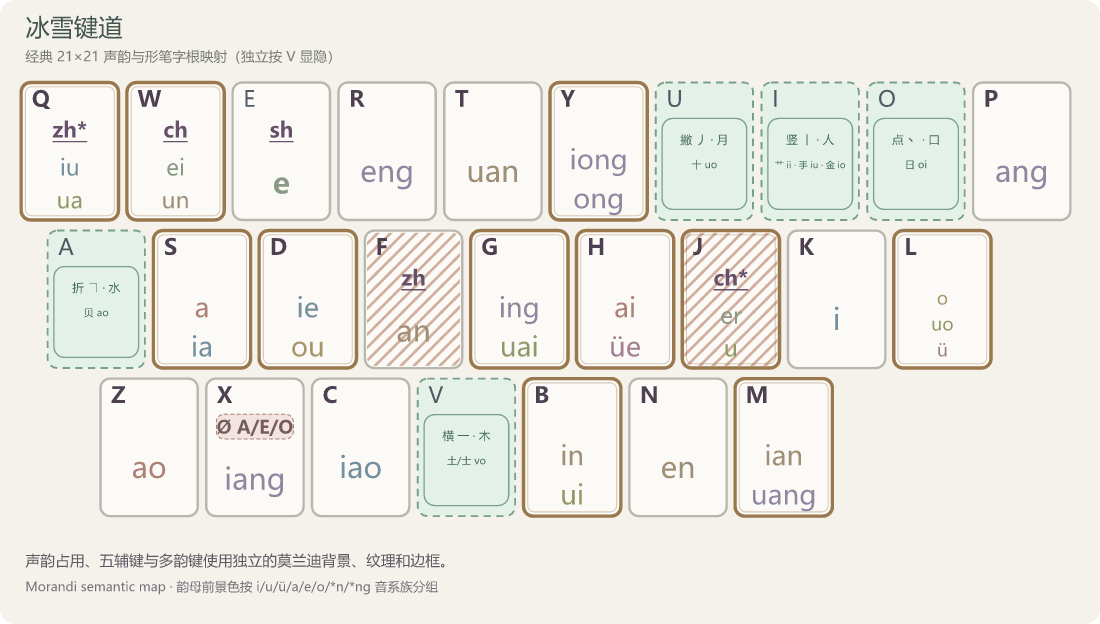
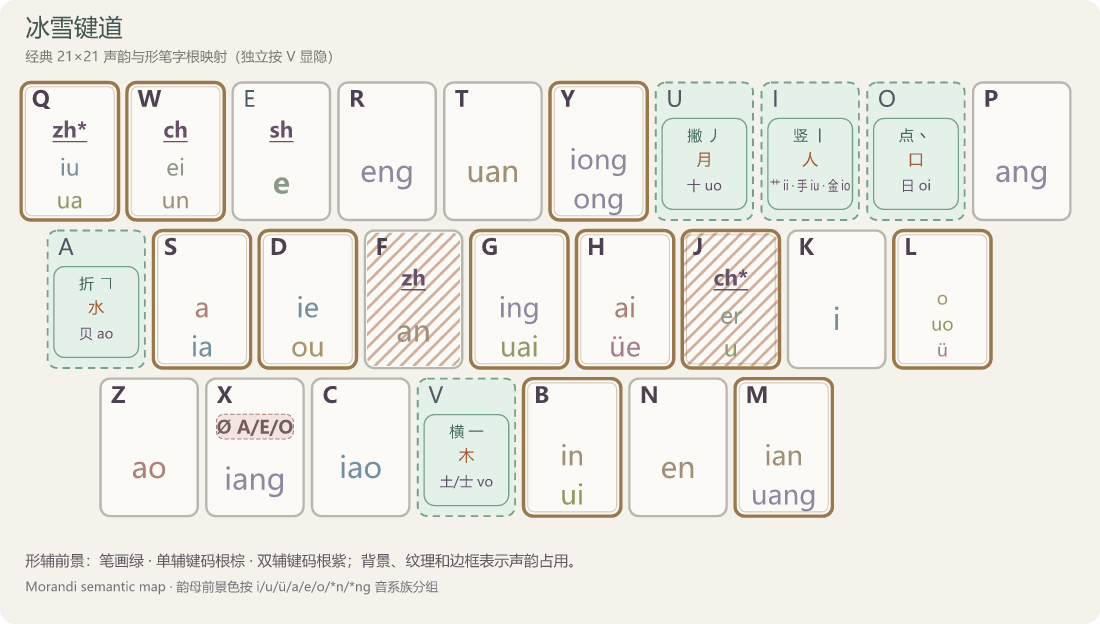
style: clarify shape auxiliary keymaps

diff --git a/scripts/generate-keymaps.ts b/scripts/generate-keymaps.ts
@@ -10,11 +10,21 @@ type Mapping = {
 	toneKeysByTone: string;
 };
 
-type KeyNote = {
+type GenericKeyNote = {
 	primary: string;
 	secondary?: string;
 	tertiary?: string;
 };
+
+type ShapeKeyNote = {
+	stroke: string;
+	singleRoot: string;
+	doubleRoot: string;
+};
+
+type KeyNote = GenericKeyNote | ShapeKeyNote;
+
+type ShapeAuxiliaryKind = "stroke" | "single-root" | "double-root";
 
 type Diagram = {
 	filename: string;
@@ -158,7 +168,7 @@ function initialLabels(mapping: Mapping) {
 	return result;
 }
 
-function toneNotes(keys: string) {
+function toneNotes(keys: string): Record<string, GenericKeyNote> {
 	const tones = ["一声 ˉ", "二声 ˊ", "三声 ˇ", "四声 ˋ", "轻声 ·"];
 	return Object.fromEntries(
 		[...keys].map((key, index) => [
@@ -168,7 +178,7 @@ function toneNotes(keys: string) {
 	);
 }
 
-function shapeNotes(keys: string) {
+function shapeNotes(keys: string): Record<string, ShapeKeyNote> {
 	const meaningKeys = [...keys.toUpperCase()];
 	const physical = {
 		a: meaningKeys[0],
@@ -183,21 +193,35 @@ function shapeNotes(keys: string) {
 			.join("")
 			.toLowerCase();
 	return {
-		[physical.a]: { primary: "折 ㇕ · 水", secondary: `贝 ${code("ao")}` },
+		[physical.a]: {
+			stroke: "折 ㇕",
+			singleRoot: "水",
+			doubleRoot: `贝 ${code("ao")}`,
+		},
 		[physical.v]: {
-			primary: "横 一 · 木",
-			secondary: `土/士 ${code("vo")}`,
+			stroke: "横 一",
+			singleRoot: "木",
+			doubleRoot: `土/士 ${code("vo")}`,
 		},
-		[physical.u]: { primary: "撇 丿 · 月", secondary: `十 ${code("uo")}` },
+		[physical.u]: {
+			stroke: "撇 丿",
+			singleRoot: "月",
+			doubleRoot: `十 ${code("uo")}`,
+		},
 		[physical.i]: {
-			primary: "竖 丨 · 人",
-			secondary: `艹 ${code("ii")} · 手 ${code("iu")} · 金 ${code("io")}`,
+			stroke: "竖 丨",
+			singleRoot: "人",
+			doubleRoot: `艹 ${code("ii")} · 手 ${code("iu")} · 金 ${code("io")}`,
 		},
-		[physical.o]: { primary: "点 丶 · 口", secondary: `日 ${code("oi")}` },
+		[physical.o]: {
+			stroke: "点 丶",
+			singleRoot: "口",
+			doubleRoot: `日 ${code("oi")}`,
+		},
 	};
 }
 
-const sipinAuxiliary: Record<string, KeyNote> = {
+const sipinAuxiliary: Record<string, GenericKeyNote> = {
 	A: { primary: "腹 a/ü", secondary: "尾 m · 四声 ˋ", tertiary: "折 ㇕" },
 	E: { primary: "腹 e/ie", secondary: "尾 ng · 二声 ˊ", tertiary: "横 一" },
 	U: { primary: "腹 u/ia/ue", secondary: "三声 ˇ", tertiary: "撇 丿" },
@@ -288,9 +312,113 @@ function text(
 	x: number,
 	y: number,
 	value: string,
-	options: { size: number; fill: string; anchor?: string; weight?: number },
+	options: {
+		size: number;
+		fill: string;
+		anchor?: string;
+		weight?: number;
+		auxKind?: ShapeAuxiliaryKind;
+		textLength?: number;
+	},
 ) {
-	return `<text x="${x}" y="${y}" font-family="Microsoft YaHei UI, Noto Sans CJK SC, sans-serif" font-size="${options.size}" fill="${options.fill}" text-anchor="${options.anchor ?? "start"}" font-weight="${options.weight ?? 500}">${escapeXml(value)}</text>`;
+	const auxiliaryKind = options.auxKind
+		? ` data-aux-kind="${options.auxKind}"`
+		: "";
+	const fittedLength = options.textLength
+		? ` textLength="${options.textLength}" lengthAdjust="spacingAndGlyphs"`
+		: "";
+	return `<text x="${x}" y="${y}" font-family="Microsoft YaHei UI, Noto Sans CJK SC, sans-serif" font-size="${options.size}" fill="${options.fill}" text-anchor="${options.anchor ?? "start"}" font-weight="${options.weight ?? 500}"${auxiliaryKind}${fittedLength}>${escapeXml(value)}</text>`;
+}
+
+function isShapeKeyNote(note: KeyNote): note is ShapeKeyNote {
+	return "stroke" in note;
+}
+
+function auxiliaryLabels(note: KeyNote) {
+	return isShapeKeyNote(note)
+		? [note.stroke, note.singleRoot, note.doubleRoot]
+		: [note.primary, note.secondary, note.tertiary].filter(
+				(value): value is string => value !== undefined,
+			);
+}
+
+function renderShapeAuxiliary(
+	note: ShapeKeyNote,
+	x: number,
+	y: number,
+	auxiliaryOnly: boolean,
+) {
+	const center = x + keyWidth / 2;
+	const rows: Array<{
+		kind: ShapeAuxiliaryKind;
+		value: string;
+		size: number;
+		fill: string;
+		weight: number;
+	}> = [
+		{
+			kind: "stroke",
+			value: note.stroke,
+			size: 14,
+			fill: "#426b59",
+			weight: 750,
+		},
+		{
+			kind: "single-root",
+			value: note.singleRoot,
+			size: 15,
+			fill: "#a05b37",
+			weight: 750,
+		},
+		{
+			kind: "double-root",
+			value: note.doubleRoot,
+			size: 13,
+			fill: "#66506a",
+			weight: 650,
+		},
+	];
+	if (auxiliaryOnly) {
+		const cardY = y + 34;
+		return [
+			`<rect x="${x + 6}" y="${cardY}" width="${keyWidth - 12}" height="86" rx="10" fill="#e4f1e9" stroke="#77a08c" stroke-width="1.2"/>`,
+			...rows.map((row, index) =>
+				text(center, cardY + [21, 44, 68][index], row.value, {
+					size: row.size,
+					fill: row.fill,
+					anchor: "middle",
+					weight: row.weight,
+					auxKind: row.kind,
+					textLength: row.value.length > 14 ? 76 : undefined,
+				}),
+			),
+		];
+	}
+	return [
+		`<rect x="${x + 40}" y="${y + 4}" width="47" height="22" rx="6" fill="#e4f1e9" stroke="#77a08c"/>`,
+		text(x + 63.5, y + 19, note.stroke, {
+			size: rows[0].size,
+			fill: rows[0].fill,
+			anchor: "middle",
+			weight: rows[0].weight,
+			auxKind: rows[0].kind,
+		}),
+		text(center, y + 45, note.singleRoot, {
+			size: rows[1].size,
+			fill: rows[1].fill,
+			anchor: "middle",
+			weight: rows[1].weight,
+			auxKind: rows[1].kind,
+		}),
+		text(center, y + 66, note.doubleRoot, {
+			size: rows[2].size,
+			fill: rows[2].fill,
+			anchor: "middle",
+			weight: rows[2].weight,
+			auxKind: rows[2].kind,
+			textLength: note.doubleRoot.length > 14 ? 76 : undefined,
+		}),
+	];
 }
 
 function semanticColor(final: string) {
@@ -317,6 +445,12 @@ function displayInitialLabels(key: string, roles: string[]) {
 }
 
 function render(diagram: Diagram) {
+	const hasShapeAuxiliary = Object.values(diagram.auxiliary ?? {}).some(
+		isShapeKeyNote,
+	);
+	const semanticLegend = hasShapeAuxiliary
+		? "形辅前景：笔画绿 · 单辅键码根棕 · 双辅键码根紫；背景、纹理和边框表示声韵占用。"
+		: "声韵占用、五辅键与多韵键使用独立的莫兰迪背景、纹理和边框。";
 	const rawInitials = diagram.mapping
 		? invert(diagram.mapping.initialMap)
 		: new Map(Object.entries(sipinInitials));
@@ -395,7 +529,7 @@ function render(diagram: Diagram) {
 			const titleFinals = final.join(" / ") || "—";
 			const items = [
 				`<g data-key="${key}" data-role="${role}"${multi ? ' data-multi="true"' : ""}>`,
-				`<title>${key}｜声码 ${escapeXml(titleInitials)}｜韵码 ${escapeXml(titleFinals)}${auxiliary ? `｜辅键 ${escapeXml([auxiliary.primary, auxiliary.secondary, auxiliary.tertiary].filter(Boolean).join(" / "))}` : ""}</title>`,
+				`<title>${key}｜声码 ${escapeXml(titleInitials)}｜韵码 ${escapeXml(titleFinals)}${auxiliary ? `｜辅键 ${escapeXml(auxiliaryLabels(auxiliary).join(" / "))}` : ""}</title>`,
 				`<clipPath id="${clip}"><rect x="${x + 3}" y="${y + 3}" width="${keyWidth - 6}" height="${keyHeight - 6}" rx="7"/></clipPath>`,
 				`<rect x="${x}" y="${y}" width="${keyWidth}" height="${keyHeight}" rx="9" fill="${fill}" stroke="${stroke}" stroke-width="${strokeWidth}"${dash ? ` stroke-dasharray="${dash}"` : ""}/>`,
 				...(multi
@@ -446,7 +580,9 @@ function render(diagram: Diagram) {
 			if (auxiliary) {
 				const auxiliaryOnly = !hasInitial && !hasRhyme;
 				const sipinDetail = diagram.filename === "snow_sipin";
-				if (auxiliaryOnly || sipinDetail) {
+				if (isShapeKeyNote(auxiliary)) {
+					items.push(...renderShapeAuxiliary(auxiliary, x, y, auxiliaryOnly));
+				} else if (auxiliaryOnly || sipinDetail) {
 					const lines = [
 						auxiliary.primary,
 						auxiliary.secondary,
@@ -499,7 +635,13 @@ function render(diagram: Diagram) {
 				const layers =
 					(ordinaryText ? 1 : 0) +
 					(zeroText ? 1 : 0) +
-					(auxiliary?.secondary ? 1 : 0);
+					(auxiliary
+						? isShapeKeyNote(auxiliary)
+							? 2
+							: auxiliary.secondary
+								? 1
+								: 0
+						: 0);
 				const count = Math.min(final.length, 3);
 				const first =
 					count <= 1
@@ -550,7 +692,7 @@ function render(diagram: Diagram) {
 			groups.push(items.join(""));
 		}
 	}
-	return `<svg xmlns="http://www.w3.org/2000/svg" class="keysvg nf4-keysvg" viewBox="0 0 ${width} ${height}" role="img" aria-labelledby="title desc">${semanticPatterns}<title id="title">${escapeXml(diagram.title)}键位映射图</title><desc id="desc">${escapeXml(diagram.subtitle)}</desc><rect width="${width}" height="${height}" rx="14" fill="#f5f2ec"/>${text(24, 34, diagram.title, { size: 23, fill: "#445650", weight: 760 })}${text(24, 58, diagram.subtitle, { size: 13, fill: "#767a73" })}${groups.join("")}${text(24, 535, "声韵占用、五辅键与多韵键使用独立的莫兰迪背景、纹理和边框。", { size: 14, fill: "#5f5862" })}${text(24, 559, "Morandi semantic map · 韵母前景色按 i/u/ü/a/e/o/*n/*ng 音系族分组", { size: 12, fill: "#74717a" })}</svg>\n`;
+	return `<svg xmlns="http://www.w3.org/2000/svg" class="keysvg nf4-keysvg" viewBox="0 0 ${width} ${height}" role="img" aria-labelledby="title desc">${semanticPatterns}<title id="title">${escapeXml(diagram.title)}键位映射图</title><desc id="desc">${escapeXml(diagram.subtitle)}</desc><rect width="${width}" height="${height}" rx="14" fill="#f5f2ec"/>${text(24, 34, diagram.title, { size: 23, fill: "#445650", weight: 760 })}${text(24, 58, diagram.subtitle, { size: 13, fill: "#767a73" })}${groups.join("")}${text(24, 535, semanticLegend, { size: 14, fill: "#5f5862" })}${text(24, 559, "Morandi semantic map · 韵母前景色按 i/u/ü/a/e/o/*n/*ng 音系族分组", { size: 12, fill: "#74717a" })}</svg>\n`;
 }
 
 function update(path: string, content: Uint8Array | string) {

diff --git a/scripts/fixed-corpus/test/keymaps.test.ts b/scripts/fixed-corpus/test/keymaps.test.ts
@@ -141,6 +141,66 @@ test("tone and shape diagrams keep their auxiliary semantics separate", () => {
 	assert.match(read("lua/snow/keymaps/snow_sipin.svg"), /腹 o\/üa\/üe/u);
 });
 
+test("shape diagrams distinguish stroke and single-key and two-key roots", () => {
+	const expectedMinimumSize = {
+		stroke: 14,
+		"single-root": 15,
+		"double-root": 13,
+	} as const;
+	for (const image of [
+		"snow_jiandao.svg",
+		"snow_jiandao_classic.svg",
+		"snow_shenyun_shape.svg",
+	]) {
+		const svg = read(`lua/snow/keymaps/${image}`);
+		const colors = new Map<string, string>();
+		for (const [kind, minimumSize] of Object.entries(expectedMinimumSize)) {
+			const tags = [
+				...svg.matchAll(
+					new RegExp(`<text\\b[^>]*data-aux-kind="${kind}"[^>]*>`, "gu"),
+				),
+			].map(([tag]) => tag);
+			assert.equal(tags.length, 5, `${image} should label five ${kind} rows`);
+			const kindColors = new Set<string>();
+			for (const tag of tags) {
+				const size = Number(tag.match(/font-size="([^"]+)"/u)?.[1]);
+				const fill = tag.match(/fill="([^"]+)"/u)?.[1];
+				assert.ok(size >= minimumSize, `${image} ${kind} font is too small`);
+				assert.ok(fill, `${image} ${kind} should define a foreground color`);
+				kindColors.add(fill);
+			}
+			assert.equal(
+				kindColors.size,
+				1,
+				`${image} ${kind} color should be stable`,
+			);
+			colors.set(kind, [...kindColors][0]);
+		}
+		assert.equal(
+			new Set(colors.values()).size,
+			3,
+			`${image} auxiliary colors must be pairwise distinct`,
+		);
+		assert.match(svg, /形辅前景：笔画绿 · 单辅键码根棕 · 双辅键码根紫/u);
+		assert.match(
+			svg,
+			/<text\b(?=[^>]*data-aux-kind="stroke")[^>]*>横 一<\/text>/u,
+		);
+		assert.match(
+			svg,
+			/<text\b(?=[^>]*data-aux-kind="single-root")[^>]*>木<\/text>/u,
+		);
+	}
+	assert.match(
+		read("lua/snow/keymaps/snow_jiandao_classic.svg"),
+		/<text\b(?=[^>]*data-aux-kind="double-root")[^>]*>土\/士 vo<\/text>/u,
+	);
+	assert.match(
+		read("lua/snow/keymaps/snow_shenyun_shape.svg"),
+		/<text\b(?=[^>]*data-aux-kind="double-root")[^>]*>土\/士 eo<\/text>/u,
+	);
+});
+
 test("seven diagrams share the benchmark Morandi semantic vocabulary", () => {
 	for (const [, , image] of schemes) {
 		const svg = read(`lua/snow/keymaps/${image}`);

diff --git a/docs/superpowers/plans/2026-11-06-keymap-auxiliary-hierarchy.md b/docs/superpowers/plans/2026-11-06-keymap-auxiliary-hierarchy.md
@@ -1,0 +1,55 @@
+# Keymap Auxiliary Hierarchy Implementation Plan
+
+> **For agentic workers:** REQUIRED SUB-SKILL: Use superpowers:subagent-driven-development (recommended) or superpowers:executing-plans to implement this plan task-by-task. Steps use checkbox (`- [ ]`) syntax for tracking.
+
+**Goal:** 让形码键位图中的笔画、单辅键码根、双辅键码根以三种不同莫兰迪前景色和更易读字号显示。
+
+**Architecture:** 在键位图生成器中把形辅说明建模为三类独立语义行，由共用渲染函数分别赋色和排版；七份 SVG 仍由同一生成器输出，固定语料测试约束三类语义和视觉属性。
+
+**Tech Stack:** TypeScript、Bun、SVG、Rust helper。
+
+**Spec:** 本轮用户请求（对话）。
+
+## Global Constraints
+
+- 三类前景色必须两两不同并沿用莫兰迪风格。
+- 三类字号均须明显大于现有小字，同时不得压过韵母主标签。
+- 只改变形码方案的形辅信息，声调和冰雪四拼辅助信息保持原语义。
+- 生成器、七份 SVG、固定语料测试和移动皮肤产物保持同步。
+
+## Review Focus
+
+- 21×21 与 21×26 两种布局中的双辅键码必须分别保留正确物理码。
+- 没有韵母标签的键位不得发生三行溢出。
+- 带韵母标签的键位须保持韵母为最大视觉层级。
+- 冰雪四拼与声调图不得被错误套用形码三分类。
+- 所有生成 SVG 必须仍能由桌面 helper 与皮肤生成器渲染。
+
+---
+
+### Task 1: 约束三类形辅视觉语义
+
+**Files:**
+- Modify: `scripts/fixed-corpus/test/keymaps.test.ts`
+
+**Interfaces:**
+- Consumes: 已生成的形码 SVG。
+- Produces: 对三种语义标记、两两不同前景色和放大字号的回归断言。
+
+- [x] **Step 1:** 添加固定语料断言并运行，确认因缺少三分类而失败。
+
+### Task 2: 拆分并渲染三类形辅信息
+
+**Files:**
+- Modify: `scripts/generate-keymaps.ts`
+- Modify: `lua/snow/keymaps/*.svg`
+
+**Interfaces:**
+- Consumes: Task 1 的 SVG 行为契约。
+- Produces: `stroke`、`single-root`、`double-root` 三类文本层。
+
+- [x] **Step 1:** 增加形辅专用数据结构和共用渲染函数。
+- [x] **Step 2:** 生成七份 SVG 并运行固定语料测试至通过。
+- [x] **Step 3:** 目视检查三份形码 PNG。
+- [x] **Step 4:** 运行格式、helper、固定语料和实际皮肤生成验证。
+- [x] **Step 5:** 提交生成器、测试、SVG 与本计划。
